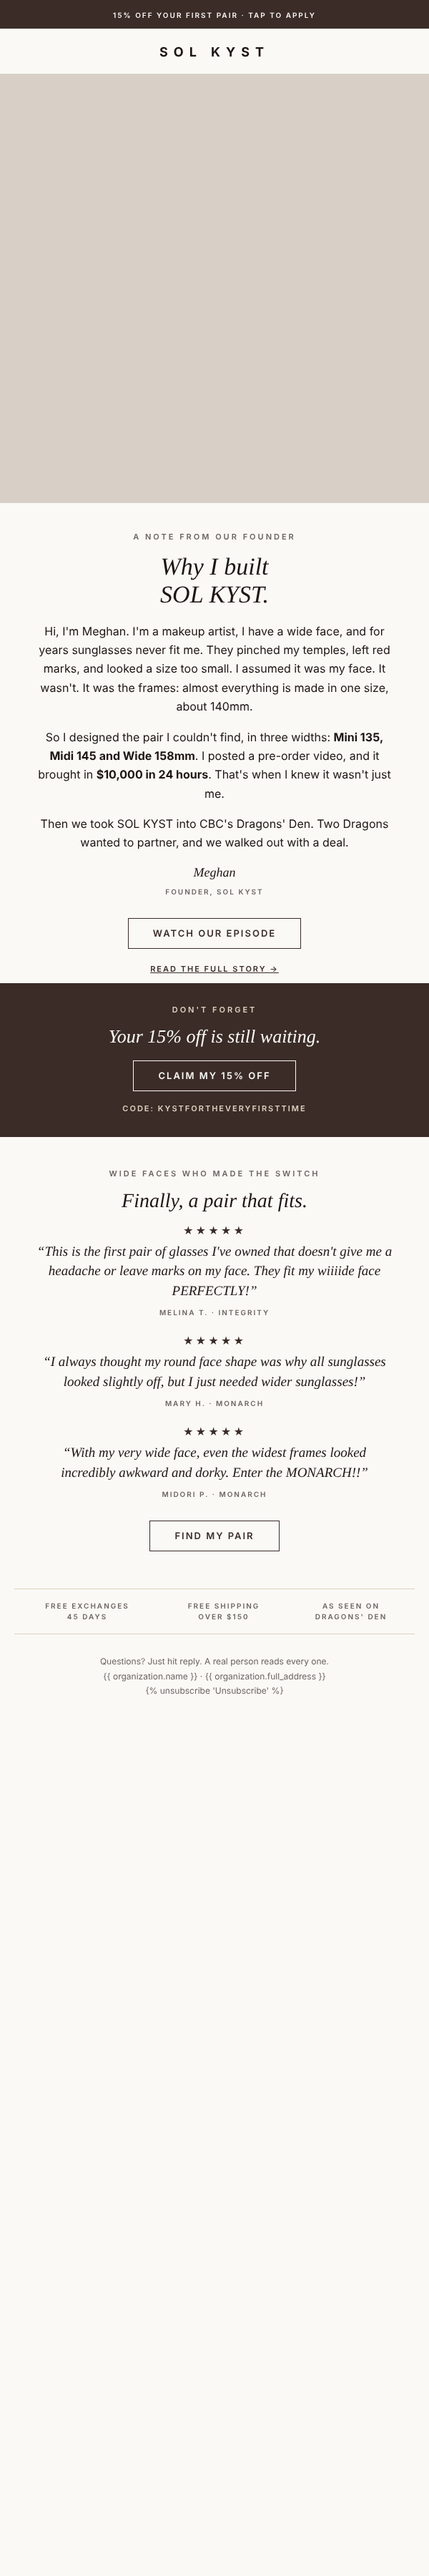
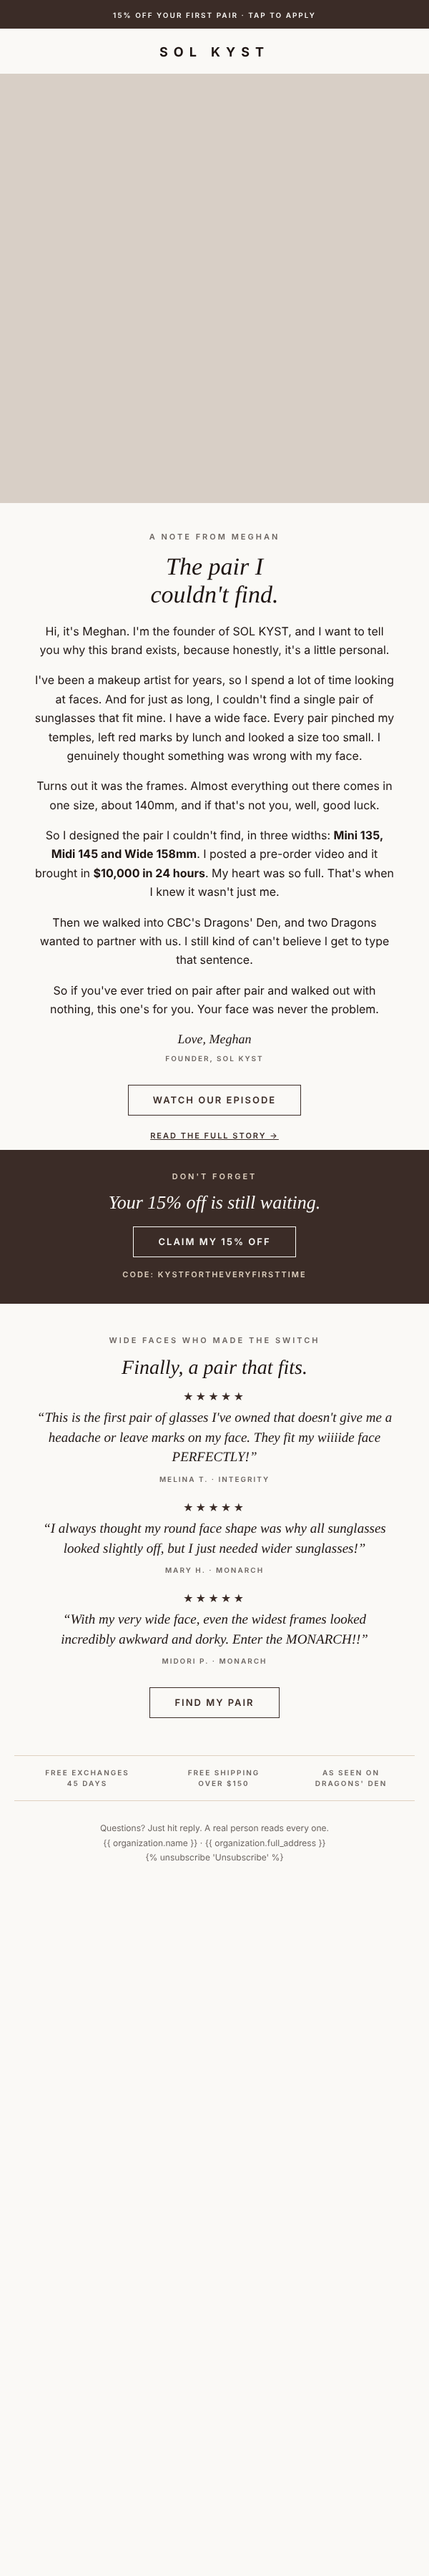
Rewrite founder and Meghan emails in Meghan's voice; add VOICE.md
Claude-Session: https://claude.ai/code/session_01PPffxMnLNyNCrFX2vAsgg8

Changed region(s): [[0.0, 0.2178, 1.0, 0.7156], [0.24, 0.6844, 0.27, 0.7156]]

diff --git a/email-flows/templates/welcome-3-founder-story.html b/email-flows/templates/welcome-3-founder-story.html
@@ -1,1 +1,1 @@
-<!DOCTYPE html><html><head><meta charset="utf-8"><meta name="viewport" content="width=device-width,initial-scale=1"><title>SOL KYST</title><style>body{margin:0;padding:0;background:#FAF9F6}@media (max-width:480px){.pad{padding-left:22px!important;padding-right:22px!important}.pcell{padding:0 6px 20px!important}.cmp td{padding:12px 8px!important;font-size:13px!important}}</style></head><body style="margin:0;background:#FAF9F6"><div style="display:none;max-height:0;overflow:hidden">Why I started SOL KYST. Plus, your 15% is still waiting.</div><table width="100%" role="presentation" cellpadding="0" cellspacing="0" border="0" style="background:#FAF9F6"><tr><td align="center"><table width="600" role="presentation" cellpadding="0" cellspacing="0" border="0" style="width:100%;max-width:600px;background:#FAF9F6"><tr><td style="background:#3B2C27;padding:11px 16px;text-align:center"><a href="https://www.solkyst.ca/discount/kystfortheveryfirsttime" style="font:600 10px/1.5 'Helvetica Neue', Helvetica, Arial, sans-serif;letter-spacing:2px;text-transform:uppercase;color:#FAF9F6;text-decoration:none">15% off your first pair &middot; tap to apply</a></td></tr><tr><td style="padding:24px 20px 20px;text-align:center"><a href="https://www.solkyst.ca" style="font:700 18px/1 'Helvetica Neue', Helvetica, Arial, sans-serif;letter-spacing:8px;color:#1E1512;text-decoration:none">SOL KYST</a></td></tr><tr><td><a href="https://www.solkyst.ca/discount/kystfortheveryfirsttime?redirect=/pages/about"><img src="https://cdn.shopify.com/s/files/1/0444/2089/0784/files/29E27CC0-0043-4BE6-A87E-9F89926B69DC.jpg?v=1789161927&width=1200" width="600" alt="SOL KYST" style="display:block;width:100%;max-width:600px;height:auto;border:0"></a></td></tr><tr><td class="pad" style="padding:40px 48px 12px"><p style="margin:0 0 14px;font:600 11px/1.4 'Helvetica Neue', Helvetica, Arial, sans-serif;letter-spacing:3px;text-transform:uppercase;color:#6B6460;text-align:center">A note from our founder</p><p style="margin:0 0 18px;font:italic 400 34px/1.15 Georgia, 'Times New Roman', serif;color:#1E1512;text-align:center">Why I built<br>SOL KYST.</p><p style="margin:0 0 16px;font:400 16px/1.65 'Helvetica Neue', Helvetica, Arial, sans-serif;color:#1E1512;text-align:center">Hi, I&#39;m Meghan. I&#39;m a makeup artist, I have a wide face, and for years sunglasses never fit me. They pinched my temples, left red marks, and looked a size too small. I assumed it was my face. It wasn&#39;t. It was the frames: almost everything is made in one size, about 140mm.</p><p style="margin:0 0 16px;font:400 16px/1.65 'Helvetica Neue', Helvetica, Arial, sans-serif;color:#1E1512;text-align:center">So I designed the pair I couldn&#39;t find, in three widths: <b>Mini 135, Midi 145 and Wide 158mm</b>. I posted a pre-order video, and it brought in <b>$10,000 in 24 hours</b>. That&#39;s when I knew it wasn&#39;t just me.</p><p style="margin:0 0 16px;font:400 16px/1.65 'Helvetica Neue', Helvetica, Arial, sans-serif;color:#1E1512;text-align:center">Then we took SOL KYST into CBC&#39;s Dragons&#39; Den. Two Dragons wanted to partner, and we walked out with a deal.</p><p style="margin:8px 0 26px;font:italic 18px/1.4 Georgia, 'Times New Roman', serif;color:#1E1512;text-align:center">Meghan<br><span style="font:600 10px/1.4 'Helvetica Neue', Helvetica, Arial, sans-serif;letter-spacing:2px;text-transform:uppercase;color:#6B6460">Founder, SOL KYST</span></p><table role="presentation" cellpadding="0" cellspacing="0" border="0" align="center" style="margin:0 auto"><tr><td style="border:1.5px solid #3B2C27"><a href="https://www.cbc.ca/dragonsden/pitches/sol-kyst" style="display:inline-block;padding:14px 34px;font:600 13px/1 'Helvetica Neue', Helvetica, Arial, sans-serif;letter-spacing:2px;text-transform:uppercase;color:#3B2C27;text-decoration:none">Watch our episode</a></td></tr></table><p style="margin:18px 0 0;text-align:center"><a href="https://www.solkyst.ca/pages/about" style="font:600 11px/1 'Helvetica Neue', Helvetica, Arial, sans-serif;letter-spacing:2px;text-transform:uppercase;color:#3B2C27">Read the full story &rarr;</a></p></td></tr><tr><td class="pad" style="background:#3B2C27;padding:30px 40px 32px;text-align:center"><p style="margin:0 0 14px;font:600 11px/1.4 'Helvetica Neue', Helvetica, Arial, sans-serif;letter-spacing:3px;text-transform:uppercase;color:#DFD1C0;text-align:center">Don&#39;t forget</p><p style="margin:0 0 18px;font:italic 400 26px/1.15 Georgia, 'Times New Roman', serif;color:#FAF9F6;text-align:center">Your 15% off is still waiting.</p><table role="presentation" cellpadding="0" cellspacing="0" border="0" align="center" style="margin:0 auto"><tr><td style="border:1.5px solid #FAF9F6"><a href="https://www.solkyst.ca/discount/kystfortheveryfirsttime?redirect=/collections/all" style="display:inline-block;padding:14px 34px;font:600 13px/1 'Helvetica Neue', Helvetica, Arial, sans-serif;letter-spacing:2px;text-transform:uppercase;color:#FAF9F6;text-decoration:none">Claim my 15% off</a></td></tr></table><p style="margin:16px 0 0;font:600 11px/1.5 'Helvetica Neue', Helvetica, Arial, sans-serif;letter-spacing:2px;text-transform:uppercase;color:#DFD1C0">Code: KYSTFORTHEVERYFIRSTTIME</p></td></tr><tr><td class="pad" style="padding:44px 48px 12px"><p style="margin:0 0 14px;font:600 11px/1.4 'Helvetica Neue', Helvetica, Arial, sans-serif;letter-spacing:3px;text-transform:uppercase;color:#6B6460;text-align:center">Wide faces who made the switch</p><p style="margin:0 0 18px;font:italic 400 28px/1.15 Georgia, 'Times New Roman', serif;color:#1E1512;text-align:center">Finally, a pair that fits.</p><table width="100%" role="presentation" cellpadding="0" cellspacing="0" border="0" style="margin:12px 0 4px"><tr><td style="padding:0 0 26px;text-align:center"><p style="margin:0 0 8px;font:14px/1 'Helvetica Neue', Helvetica, Arial, sans-serif;letter-spacing:3px;color:#3B2C27">&#9733;&#9733;&#9733;&#9733;&#9733;</p><p style="margin:0 0 10px;font:italic 19px/1.45 Georgia, 'Times New Roman', serif;color:#1E1512">&ldquo;This is the first pair of glasses I&#39;ve owned that doesn&#39;t give me a headache or leave marks on my face. They fit my wiiiide face PERFECTLY!&rdquo;</p><p style="margin:0;font:600 10px/1.4 'Helvetica Neue', Helvetica, Arial, sans-serif;letter-spacing:2px;text-transform:uppercase;color:#6B6460">Melina T. &middot; Integrity</p></td></tr><tr><td style="padding:0 0 26px;text-align:center"><p style="margin:0 0 8px;font:14px/1 'Helvetica Neue', Helvetica, Arial, sans-serif;letter-spacing:3px;color:#3B2C27">&#9733;&#9733;&#9733;&#9733;&#9733;</p><p style="margin:0 0 10px;font:italic 19px/1.45 Georgia, 'Times New Roman', serif;color:#1E1512">&ldquo;I always thought my round face shape was why all sunglasses looked slightly off, but I just needed wider sunglasses!&rdquo;</p><p style="margin:0;font:600 10px/1.4 'Helvetica Neue', Helvetica, Arial, sans-serif;letter-spacing:2px;text-transform:uppercase;color:#6B6460">Mary H. &middot; Monarch</p></td></tr><tr><td style="padding:0 0 26px;text-align:center"><p style="margin:0 0 8px;font:14px/1 'Helvetica Neue', Helvetica, Arial, sans-serif;letter-spacing:3px;color:#3B2C27">&#9733;&#9733;&#9733;&#9733;&#9733;</p><p style="margin:0 0 10px;font:italic 19px/1.45 Georgia, 'Times New Roman', serif;color:#1E1512">&ldquo;With my very wide face, even the widest frames looked incredibly awkward and dorky. Enter the MONARCH!!&rdquo;</p><p style="margin:0;font:600 10px/1.4 'Helvetica Neue', Helvetica, Arial, sans-serif;letter-spacing:2px;text-transform:uppercase;color:#6B6460">Midori P. &middot; Monarch</p></td></tr></table><table role="presentation" cellpadding="0" cellspacing="0" border="0" align="center" style="margin:0 auto"><tr><td style="border:1.5px solid #3B2C27"><a href="https://www.solkyst.ca/discount/kystfortheveryfirsttime?redirect=/collections/all" style="display:inline-block;padding:14px 34px;font:600 13px/1 'Helvetica Neue', Helvetica, Arial, sans-serif;letter-spacing:2px;text-transform:uppercase;color:#3B2C27;text-decoration:none">Find my pair</a></td></tr></table></td></tr><tr><td style="padding:40px 20px 0"><table width="100%" role="presentation" cellpadding="0" cellspacing="0" border="0" style="border-top:1px solid #DFD1C0;border-bottom:1px solid #DFD1C0"><tr><td style="padding:16px 8px;text-align:center;font:600 10px/1.5 'Helvetica Neue', Helvetica, Arial, sans-serif;letter-spacing:2px;text-transform:uppercase;color:#6B6460">Free exchanges<br>45 days</td><td style="padding:16px 8px;text-align:center;font:600 10px/1.5 'Helvetica Neue', Helvetica, Arial, sans-serif;letter-spacing:2px;text-transform:uppercase;color:#6B6460">Free shipping<br>over $150</td><td style="padding:16px 8px;text-align:center;font:600 10px/1.5 'Helvetica Neue', Helvetica, Arial, sans-serif;letter-spacing:2px;text-transform:uppercase;color:#6B6460">As seen on<br>Dragons&#39; Den</td></tr></table></td></tr><tr><td style="padding:28px 30px 40px;text-align:center;font:400 12px/1.7 'Helvetica Neue', Helvetica, Arial, sans-serif;color:#6B6460">Questions? Just hit reply. A real person reads every one.<br>{{ organization.name }} &middot; {{ organization.full_address }}<br>{% unsubscribe 'Unsubscribe' %}</td></tr></table></td></tr></table></body></html>
+<!DOCTYPE html><html><head><meta charset="utf-8"><meta name="viewport" content="width=device-width,initial-scale=1"><title>SOL KYST</title><style>body{margin:0;padding:0;background:#FAF9F6}@media (max-width:480px){.pad{padding-left:22px!important;padding-right:22px!important}.pcell{padding:0 6px 20px!important}.cmp td{padding:12px 8px!important;font-size:13px!important}}</style></head><body style="margin:0;background:#FAF9F6"><div style="display:none;max-height:0;overflow:hidden">Why I started SOL KYST, and your 15% is still here.</div><table width="100%" role="presentation" cellpadding="0" cellspacing="0" border="0" style="background:#FAF9F6"><tr><td align="center"><table width="600" role="presentation" cellpadding="0" cellspacing="0" border="0" style="width:100%;max-width:600px;background:#FAF9F6"><tr><td style="background:#3B2C27;padding:11px 16px;text-align:center"><a href="https://www.solkyst.ca/discount/kystfortheveryfirsttime" style="font:600 10px/1.5 'Helvetica Neue', Helvetica, Arial, sans-serif;letter-spacing:2px;text-transform:uppercase;color:#FAF9F6;text-decoration:none">15% off your first pair &middot; tap to apply</a></td></tr><tr><td style="padding:24px 20px 20px;text-align:center"><a href="https://www.solkyst.ca" style="font:700 18px/1 'Helvetica Neue', Helvetica, Arial, sans-serif;letter-spacing:8px;color:#1E1512;text-decoration:none">SOL KYST</a></td></tr><tr><td><a href="https://www.solkyst.ca/discount/kystfortheveryfirsttime?redirect=/pages/about"><img src="https://cdn.shopify.com/s/files/1/0444/2089/0784/files/29E27CC0-0043-4BE6-A87E-9F89926B69DC.jpg?v=1789161927&width=1200" width="600" alt="SOL KYST" style="display:block;width:100%;max-width:600px;height:auto;border:0"></a></td></tr><tr><td class="pad" style="padding:40px 48px 12px"><p style="margin:0 0 14px;font:600 11px/1.4 'Helvetica Neue', Helvetica, Arial, sans-serif;letter-spacing:3px;text-transform:uppercase;color:#6B6460;text-align:center">A note from Meghan</p><p style="margin:0 0 18px;font:italic 400 34px/1.15 Georgia, 'Times New Roman', serif;color:#1E1512;text-align:center">The pair I<br>couldn&#39;t find.</p><p style="margin:0 0 16px;font:400 16px/1.65 'Helvetica Neue', Helvetica, Arial, sans-serif;color:#1E1512;text-align:center">Hi, it&#39;s Meghan. I&#39;m the founder of SOL KYST, and I want to tell you why this brand exists, because honestly, it&#39;s a little personal.</p><p style="margin:0 0 16px;font:400 16px/1.65 'Helvetica Neue', Helvetica, Arial, sans-serif;color:#1E1512;text-align:center">I&#39;ve been a makeup artist for years, so I spend a lot of time looking at faces. And for just as long, I couldn&#39;t find a single pair of sunglasses that fit mine. I have a wide face. Every pair pinched my temples, left red marks by lunch and looked a size too small. I genuinely thought something was wrong with my face.</p><p style="margin:0 0 16px;font:400 16px/1.65 'Helvetica Neue', Helvetica, Arial, sans-serif;color:#1E1512;text-align:center">Turns out it was the frames. Almost everything out there comes in one size, about 140mm, and if that&#39;s not you, well, good luck.</p><p style="margin:0 0 16px;font:400 16px/1.65 'Helvetica Neue', Helvetica, Arial, sans-serif;color:#1E1512;text-align:center">So I designed the pair I couldn&#39;t find, in three widths: <b>Mini 135, Midi 145 and Wide 158mm</b>. I posted a pre-order video and it brought in <b>$10,000 in 24 hours</b>. My heart was so full. That&#39;s when I knew it wasn&#39;t just me.</p><p style="margin:0 0 16px;font:400 16px/1.65 'Helvetica Neue', Helvetica, Arial, sans-serif;color:#1E1512;text-align:center">Then we walked into CBC&#39;s Dragons&#39; Den, and two Dragons wanted to partner with us. I still kind of can&#39;t believe I get to type that sentence.</p><p style="margin:0 0 16px;font:400 16px/1.65 'Helvetica Neue', Helvetica, Arial, sans-serif;color:#1E1512;text-align:center">So if you&#39;ve ever tried on pair after pair and walked out with nothing, this one&#39;s for you. Your face was never the problem.</p><p style="margin:8px 0 26px;font:italic 18px/1.4 Georgia, 'Times New Roman', serif;color:#1E1512;text-align:center">Love, Meghan<br><span style="font:600 10px/1.4 'Helvetica Neue', Helvetica, Arial, sans-serif;letter-spacing:2px;text-transform:uppercase;color:#6B6460">Founder, SOL KYST</span></p><table role="presentation" cellpadding="0" cellspacing="0" border="0" align="center" style="margin:0 auto"><tr><td style="border:1.5px solid #3B2C27"><a href="https://www.cbc.ca/dragonsden/pitches/sol-kyst" style="display:inline-block;padding:14px 34px;font:600 13px/1 'Helvetica Neue', Helvetica, Arial, sans-serif;letter-spacing:2px;text-transform:uppercase;color:#3B2C27;text-decoration:none">Watch our episode</a></td></tr></table><p style="margin:18px 0 0;text-align:center"><a href="https://www.solkyst.ca/pages/about" style="font:600 11px/1 'Helvetica Neue', Helvetica, Arial, sans-serif;letter-spacing:2px;text-transform:uppercase;color:#3B2C27">Read the full story &rarr;</a></p></td></tr><tr><td class="pad" style="background:#3B2C27;padding:30px 40px 32px;text-align:center"><p style="margin:0 0 14px;font:600 11px/1.4 'Helvetica Neue', Helvetica, Arial, sans-serif;letter-spacing:3px;text-transform:uppercase;color:#DFD1C0;text-align:center">Don&#39;t forget</p><p style="margin:0 0 18px;font:italic 400 26px/1.15 Georgia, 'Times New Roman', serif;color:#FAF9F6;text-align:center">Your 15% off is still waiting.</p><table role="presentation" cellpadding="0" cellspacing="0" border="0" align="center" style="margin:0 auto"><tr><td style="border:1.5px solid #FAF9F6"><a href="https://www.solkyst.ca/discount/kystfortheveryfirsttime?redirect=/collections/all" style="display:inline-block;padding:14px 34px;font:600 13px/1 'Helvetica Neue', Helvetica, Arial, sans-serif;letter-spacing:2px;text-transform:uppercase;color:#FAF9F6;text-decoration:none">Claim my 15% off</a></td></tr></table><p style="margin:16px 0 0;font:600 11px/1.5 'Helvetica Neue', Helvetica, Arial, sans-serif;letter-spacing:2px;text-transform:uppercase;color:#DFD1C0">Code: KYSTFORTHEVERYFIRSTTIME</p></td></tr><tr><td class="pad" style="padding:44px 48px 12px"><p style="margin:0 0 14px;font:600 11px/1.4 'Helvetica Neue', Helvetica, Arial, sans-serif;letter-spacing:3px;text-transform:uppercase;color:#6B6460;text-align:center">Wide faces who made the switch</p><p style="margin:0 0 18px;font:italic 400 28px/1.15 Georgia, 'Times New Roman', serif;color:#1E1512;text-align:center">Finally, a pair that fits.</p><table width="100%" role="presentation" cellpadding="0" cellspacing="0" border="0" style="margin:12px 0 4px"><tr><td style="padding:0 0 26px;text-align:center"><p style="margin:0 0 8px;font:14px/1 'Helvetica Neue', Helvetica, Arial, sans-serif;letter-spacing:3px;color:#3B2C27">&#9733;&#9733;&#9733;&#9733;&#9733;</p><p style="margin:0 0 10px;font:italic 19px/1.45 Georgia, 'Times New Roman', serif;color:#1E1512">&ldquo;This is the first pair of glasses I&#39;ve owned that doesn&#39;t give me a headache or leave marks on my face. They fit my wiiiide face PERFECTLY!&rdquo;</p><p style="margin:0;font:600 10px/1.4 'Helvetica Neue', Helvetica, Arial, sans-serif;letter-spacing:2px;text-transform:uppercase;color:#6B6460">Melina T. &middot; Integrity</p></td></tr><tr><td style="padding:0 0 26px;text-align:center"><p style="margin:0 0 8px;font:14px/1 'Helvetica Neue', Helvetica, Arial, sans-serif;letter-spacing:3px;color:#3B2C27">&#9733;&#9733;&#9733;&#9733;&#9733;</p><p style="margin:0 0 10px;font:italic 19px/1.45 Georgia, 'Times New Roman', serif;color:#1E1512">&ldquo;I always thought my round face shape was why all sunglasses looked slightly off, but I just needed wider sunglasses!&rdquo;</p><p style="margin:0;font:600 10px/1.4 'Helvetica Neue', Helvetica, Arial, sans-serif;letter-spacing:2px;text-transform:uppercase;color:#6B6460">Mary H. &middot; Monarch</p></td></tr><tr><td style="padding:0 0 26px;text-align:center"><p style="margin:0 0 8px;font:14px/1 'Helvetica Neue', Helvetica, Arial, sans-serif;letter-spacing:3px;color:#3B2C27">&#9733;&#9733;&#9733;&#9733;&#9733;</p><p style="margin:0 0 10px;font:italic 19px/1.45 Georgia, 'Times New Roman', serif;color:#1E1512">&ldquo;With my very wide face, even the widest frames looked incredibly awkward and dorky. Enter the MONARCH!!&rdquo;</p><p style="margin:0;font:600 10px/1.4 'Helvetica Neue', Helvetica, Arial, sans-serif;letter-spacing:2px;text-transform:uppercase;color:#6B6460">Midori P. &middot; Monarch</p></td></tr></table><table role="presentation" cellpadding="0" cellspacing="0" border="0" align="center" style="margin:0 auto"><tr><td style="border:1.5px solid #3B2C27"><a href="https://www.solkyst.ca/discount/kystfortheveryfirsttime?redirect=/collections/all" style="display:inline-block;padding:14px 34px;font:600 13px/1 'Helvetica Neue', Helvetica, Arial, sans-serif;letter-spacing:2px;text-transform:uppercase;color:#3B2C27;text-decoration:none">Find my pair</a></td></tr></table></td></tr><tr><td style="padding:40px 20px 0"><table width="100%" role="presentation" cellpadding="0" cellspacing="0" border="0" style="border-top:1px solid #DFD1C0;border-bottom:1px solid #DFD1C0"><tr><td style="padding:16px 8px;text-align:center;font:600 10px/1.5 'Helvetica Neue', Helvetica, Arial, sans-serif;letter-spacing:2px;text-transform:uppercase;color:#6B6460">Free exchanges<br>45 days</td><td style="padding:16px 8px;text-align:center;font:600 10px/1.5 'Helvetica Neue', Helvetica, Arial, sans-serif;letter-spacing:2px;text-transform:uppercase;color:#6B6460">Free shipping<br>over $150</td><td style="padding:16px 8px;text-align:center;font:600 10px/1.5 'Helvetica Neue', Helvetica, Arial, sans-serif;letter-spacing:2px;text-transform:uppercase;color:#6B6460">As seen on<br>Dragons&#39; Den</td></tr></table></td></tr><tr><td style="padding:28px 30px 40px;text-align:center;font:400 12px/1.7 'Helvetica Neue', Helvetica, Arial, sans-serif;color:#6B6460">Questions? Just hit reply. A real person reads every one.<br>{{ organization.name }} &middot; {{ organization.full_address }}<br>{% unsubscribe 'Unsubscribe' %}</td></tr></table></td></tr></table></body></html>

diff --git a/email-flows/templates/welcome-6-meghan.html b/email-flows/templates/welcome-6-meghan.html
@@ -1,1 +1,1 @@
-<!DOCTYPE html><html><head><meta charset="utf-8"><meta name="viewport" content="width=device-width,initial-scale=1"><title>SOL KYST</title><style>body{margin:0;background:#fff}td,p{font-family:Arial,sans-serif;font-size:15px;line-height:1.6;color:#222}p{margin:0 0 16px}a{color:#3B2C27}</style></head><body><div style="display:none;max-height:0;overflow:hidden">Your 15% is still here. And a quick question.</div><table width="100%" role="presentation" cellpadding="0" cellspacing="0" border="0"><tr><td style="padding:24px 20px"><table width="560" role="presentation" cellpadding="0" cellspacing="0" border="0" style="width:100%;max-width:560px"><tr><td><p>Hi {{ first_name|default:'' }},</p><p>It&#39;s Meghan, the founder of SOL KYST. I wanted to check in personally.</p><p>I started this brand because I have a wide face and sunglasses never fit me. Most of the people who sign up to our list have been through the same thing, so I&#39;m guessing you have too.</p><p>If something is holding you back, I&#39;d love to know. Is it the size? The price? Not sure which style suits you? <b>Just hit reply.</b> I read every one, and we&#39;ll help you find your pair.</p><p>Your 15% off is still waiting: <a href="https://www.solkyst.ca/discount/kystfortheveryfirsttime?redirect=/collections/all"><b>KYSTFORTHEVERYFIRSTTIME</b></a> (it applies automatically when you tap).</p><p>Let&#39;s get you Kyst,<br>Meghan<br>Founder, SOL KYST</p><p style="margin-top:40px;font-size:11px;color:#999">{{ organization.name }} &middot; {{ organization.full_address }} &middot; {% unsubscribe 'Unsubscribe' %}</p></td></tr></table></td></tr></table></body></html>
+<!DOCTYPE html><html><head><meta charset="utf-8"><meta name="viewport" content="width=device-width,initial-scale=1"><title>SOL KYST</title><style>body{margin:0;background:#fff}td,p{font-family:Arial,sans-serif;font-size:15px;line-height:1.6;color:#222}p{margin:0 0 16px}a{color:#3B2C27}</style></head><body><div style="display:none;max-height:0;overflow:hidden">Your 15% is still here. And a quick question.</div><table width="100%" role="presentation" cellpadding="0" cellspacing="0" border="0"><tr><td style="padding:24px 20px"><table width="560" role="presentation" cellpadding="0" cellspacing="0" border="0" style="width:100%;max-width:560px"><tr><td><p>Hi {{ first_name|default:'' }},</p><p>It&#39;s Meghan again. Quick one, I promise.</p><p>I&#39;ll be honest, I&#39;m not great at the salesy stuff. I&#39;d rather just talk to you.</p><p>If you&#39;ve been eyeing a pair but something&#39;s holding you back, I&#39;d genuinely love to know what it is. The size? The price? Not sure what&#39;ll suit your face? <b>Just hit reply and tell me.</b> I read these, and I&#39;ll help you figure it out, even if the answer is that we&#39;re not the right fit for you.</p><p>Or send me a selfie (straight on, hair back) and I&#39;ll tell you your size. That&#39;s honestly one of my favourite parts of this job.</p><p>Your 15% off is still here whenever you&#39;re ready: <a href="https://www.solkyst.ca/discount/kystfortheveryfirsttime?redirect=/collections/all"><b>KYSTFORTHEVERYFIRSTTIME</b></a> (it applies automatically when you tap).</p><p>Let&#39;s get you Kyst,<br>Meghan<br>Founder, SOL KYST</p><p>P.S. Running a small company means wearing a lot of hats. Reading your emails is my favourite one.</p><p style="margin-top:40px;font-size:11px;color:#999">{{ organization.name }} &middot; {{ organization.full_address }} &middot; {% unsubscribe 'Unsubscribe' %}</p></td></tr></table></td></tr></table></body></html>

diff --git a/email-flows/build_welcome_flow.py b/email-flows/build_welcome_flow.py
@@ -134,13 +134,16 @@ E2 = page("Grab the pair you wore today. Bet we know how this ends.",
 
 
 # ---------- Email 3 (+4h): founder story + reviews (Mave & Chez "Why we built these") ----------
-E3 = page("Why I started SOL KYST. Plus, your 15% is still waiting.",
+E3 = page("Why I started SOL KYST, and your 15% is still here.",
     f'<tr><td>{image(PHOTO["friends"], link("/pages/about"), "SOL KYST")}</td></tr>'
-    + section(eyebrow("A note from our founder") + headline("Why I built<br>SOL KYST.")
-              + body("Hi, I&#39;m Meghan. I&#39;m a makeup artist, I have a wide face, and for years sunglasses never fit me. They pinched my temples, left red marks, and looked a size too small. I assumed it was my face. It wasn&#39;t. It was the frames: almost everything is made in one size, about 140mm.")
-              + body("So I designed the pair I couldn&#39;t find, in three widths: <b>Mini 135, Midi 145 and Wide 158mm</b>. I posted a pre-order video, and it brought in <b>$10,000 in 24 hours</b>. That&#39;s when I knew it wasn&#39;t just me.")
-              + body("Then we took SOL KYST into CBC&#39;s Dragons&#39; Den. Two Dragons wanted to partner, and we walked out with a deal.")
-              + f'<p style="margin:8px 0 26px;font:italic 18px/1.4 {SERIF};color:{INK};text-align:center">Meghan<br><span style="font:600 10px/1.4 {SANS};letter-spacing:2px;text-transform:uppercase;color:{MUTED}">Founder, SOL KYST</span></p>'
+    + section(eyebrow("A note from Meghan") + headline("The pair I<br>couldn&#39;t find.")
+              + body("Hi, it&#39;s Meghan. I&#39;m the founder of SOL KYST, and I want to tell you why this brand exists, because honestly, it&#39;s a little personal.")
+              + body("I&#39;ve been a makeup artist for years, so I spend a lot of time looking at faces. And for just as long, I couldn&#39;t find a single pair of sunglasses that fit mine. I have a wide face. Every pair pinched my temples, left red marks by lunch and looked a size too small. I genuinely thought something was wrong with my face.")
+              + body("Turns out it was the frames. Almost everything out there comes in one size, about 140mm, and if that&#39;s not you, well, good luck.")
+              + body("So I designed the pair I couldn&#39;t find, in three widths: <b>Mini 135, Midi 145 and Wide 158mm</b>. I posted a pre-order video and it brought in <b>$10,000 in 24 hours</b>. My heart was so full. That&#39;s when I knew it wasn&#39;t just me.")
+              + body("Then we walked into CBC&#39;s Dragons&#39; Den, and two Dragons wanted to partner with us. I still kind of can&#39;t believe I get to type that sentence.")
+              + body("So if you&#39;ve ever tried on pair after pair and walked out with nothing, this one&#39;s for you. Your face was never the problem.")
+              + f'<p style="margin:8px 0 26px;font:italic 18px/1.4 {SERIF};color:{INK};text-align:center">Love, Meghan<br><span style="font:600 10px/1.4 {SANS};letter-spacing:2px;text-transform:uppercase;color:{MUTED}">Founder, SOL KYST</span></p>'
               + button("Watch our episode", DEN, COCOA, COCOA)
               + f'<p style="margin:18px 0 0;text-align:center"><a href="{SITE}/pages/about" style="font:600 11px/1 {SANS};letter-spacing:2px;text-transform:uppercase;color:{COCOA}">Read the full story &rarr;</a></p>', "40px 48px 12px")
     + f'<tr><td class="pad" style="background:{COCOA};padding:30px 40px 32px;text-align:center">'
@@ -184,17 +187,19 @@ E5 = page("Four pairs, four moods. Start with one.",
       + f'<p style="margin:8px 0 0;font:italic 15px/1.5 {SERIF};color:{MUTED}">The brand two Dragons wanted in on. <a href="{DEN}" style="color:{COCOA}">Watch the episode</a></p>'
       + '</td></tr>')
 
-# ---------- Email 6 (+3 days): personal note from Meghan (plain, KENT-style "feedback? send us your thoughts") ----------
+# ---------- Email 6: personal note from Meghan (voice: VOICE.md) (plain, KENT-style "feedback? send us your thoughts") ----------
 E6 = ('<!DOCTYPE html><html><head><meta charset="utf-8"><meta name="viewport" content="width=device-width,initial-scale=1"><title>SOL KYST</title>'
       '<style>body{margin:0;background:#fff}td,p{font-family:Arial,sans-serif;font-size:15px;line-height:1.6;color:#222}p{margin:0 0 16px}a{color:#3B2C27}</style></head>'
       '<body><div style="display:none;max-height:0;overflow:hidden">Your 15% is still here. And a quick question.</div>'
       f'<table width="100%" {T0}><tr><td style="padding:24px 20px"><table width="560" {T0} style="width:100%;max-width:560px"><tr><td>'
       f'<p>Hi {FN},</p>'
-      '<p>It&#39;s Meghan, the founder of SOL KYST. I wanted to check in personally.</p>'
-      '<p>I started this brand because I have a wide face and sunglasses never fit me. Most of the people who sign up to our list have been through the same thing, so I&#39;m guessing you have too.</p>'
-      '<p>If something is holding you back, I&#39;d love to know. Is it the size? The price? Not sure which style suits you? <b>Just hit reply.</b> I read every one, and we&#39;ll help you find your pair.</p>'
-      f'<p>Your 15% off is still waiting: <a href="{link("/collections/all")}"><b>{CODE.upper()}</b></a> (it applies automatically when you tap).</p>'
+      '<p>It&#39;s Meghan again. Quick one, I promise.</p>'
+      '<p>I&#39;ll be honest, I&#39;m not great at the salesy stuff. I&#39;d rather just talk to you.</p>'
+      '<p>If you&#39;ve been eyeing a pair but something&#39;s holding you back, I&#39;d genuinely love to know what it is. The size? The price? Not sure what&#39;ll suit your face? <b>Just hit reply and tell me.</b> I read these, and I&#39;ll help you figure it out, even if the answer is that we&#39;re not the right fit for you.</p>'
+      '<p>Or send me a selfie (straight on, hair back) and I&#39;ll tell you your size. That&#39;s honestly one of my favourite parts of this job.</p>'
+      f'<p>Your 15% off is still here whenever you&#39;re ready: <a href="{link("/collections/all")}"><b>{CODE.upper()}</b></a> (it applies automatically when you tap).</p>'
       '<p>Let&#39;s get you Kyst,<br>Meghan<br>Founder, SOL KYST</p>'
+      '<p>P.S. Running a small company means wearing a lot of hats. Reading your emails is my favourite one.</p>'
       '<p style="margin-top:40px;font-size:11px;color:#999">{{ organization.name }} &middot; {{ organization.full_address }} &middot; {% unsubscribe \'Unsubscribe\' %}</p>'
       '</td></tr></table></td></tr></table></body></html>')
 

diff --git a/email-flows/05-welcome-flow.md b/email-flows/05-welcome-flow.md
@@ -14,14 +14,14 @@ The earlier draft `XaWmir` (v2, 5 emails over 8 days) is superseded. Delete it o
 |---|---|---|---|---|---|
 | 1 | Right away | Offer + Dragons' Den | Welcome. Here's 15% off your first pair | Sunglasses built for wide faces | SOL KYST |
 | 2 | +18 hours (next morning) | The 30-second test | Do your sunglasses pass the 30-second test? | Grab the pair you wore today. Bet we know how this ends. | SOL KYST |
-| 3 | +2 days (day 3) | Founder story + reviews | Why I built SOL KYST (and why it matters to you) | Why I started SOL KYST. Plus, your 15% is still waiting. | Meghan at SOL KYST |
+| 3 | +2 days (day 3) | Founder story + reviews | the pair I couldn't find | Why I started SOL KYST, and your 15% is still here. | Meghan at SOL KYST |
 | 4 | +1 day (day 4) | Ours vs. theirs | Why your sunglasses pinch (it's not your face) | Standard frames come in one size. You don't. | SOL KYST |
 | 5 | +2 days (day 6) | Start here | Not sure where to start? | Four pairs, four moods. Start with one. | SOL KYST |
 | 6 | +3 days (day 9) | Note from Meghan (plain text) | still thinking it over? | Your 15% is still here. And a quick question. | Meghan at SOL KYST |
 
 **Smart Sending** is off for email 1 only, so the code always arrives. Every later email is at least 16 hours after the one before.
 
-**Klaviyo copies templates into the flow.** Editing the original templates won't change the flow emails; the flow's copies must be updated too.
+**Klaviyo copies templates into the flow.** After editing an original template, re-attach it to the flow email (update its template_id) so the flow gets a fresh copy.
 
 ## Copy rules
 - No fake urgency: the code has no end date, so no "expires" language.
@@ -30,7 +30,7 @@ The earlier draft `XaWmir` (v2, 5 emails over 8 days) is superseded. Delete it o
 
 ## Before switching on
 - [ ] Decide what happens to the live welcome flow (`Xs46zf`, one email, no coupon). Two flows on the same list would double-send.
-- [ ] Rewrite emails 3 and 6 in Meghan's real voice (waiting on writing samples).
+- [ ] Meghan to read emails 3 and 6 (rewritten using `VOICE.md`) and flag anything that doesn't sound like her.
 - [ ] Optional: swap the email 3 photo for one of Meghan. It currently reuses the friends photo from email 5.
 - [ ] Send yourself a test of each email.
 

diff --git a/email-flows/VOICE.md b/email-flows/VOICE.md
@@ -1,0 +1,32 @@
+# Meghan's voice
+
+Use for anything signed by Meghan or written in first person (founder emails, plain-text notes, captions).
+Source: Meghan's own writing (Oct 1, 5, 6 and 13), picked out in a ChatGPT review. Only her lines are quoted below.
+
+## In one line
+Talking honestly to someone she trusts: a specific moment, how it felt, what she learned. Warm, self-aware, a bit sweary, funny in passing. Her best lines put something blunt next to something tender.
+
+## Her lines (reference, not copy)
+- "There's really not many people I don't get along with, and I definitely prefer to be liked by people, that's for sure."
+- "And then in the end it ends up biting me in the ass … and as I like to say my heart hurts."
+- "I think the biggest hauntings I have in this business are when I've said yes to things that I haven't felt good about."
+- "…spraying a signature scent on the bed because somehow that immediately tells my brain, okay, we're home for now."
+- "Like, go back to the '90s with the ugly-ass calendar. Like, I remember when the Sears catalog would come out…"
+- "Unfortunately when you're running a small company and a small team, there's a lot of hats you have to wear."
+- "I just want to say thank you so much again for such a freaking phenomenal and fun day."
+
+## Do
+- Write the way she talks. Contractions, "honestly", "like", "that's for sure", "freaking". Sentences can run on a little.
+- Start from a real, specific scene (a product, a place, a moment), then say how it felt.
+- Admit something a bit uncomfortable about herself, then what she learned from it.
+- Pair blunt with tender: "biting me in the ass" + "my heart hurts".
+- Explain ideas through shared memories (the Sears catalog).
+- Thank people like you mean it, out loud.
+- Light swearing is on brand ("ass", "freaking"). Keep anything stronger out of customer email.
+
+## Don't
+- No polished marketing voice: "elevate", "curated", "game-changer", "we're thrilled to announce".
+- No neat three-part slogans or "It's not X. It's Y." lines.
+- No invented anecdotes. Specific scenes have to be real. If a draft needs one, ask Meghan.
+- Her personal stories (hospital, travel) stay out of marketing unless she says so.
+- Trim filler "likes" in edited copy, but keep the momentum and the run-on rhythm.
